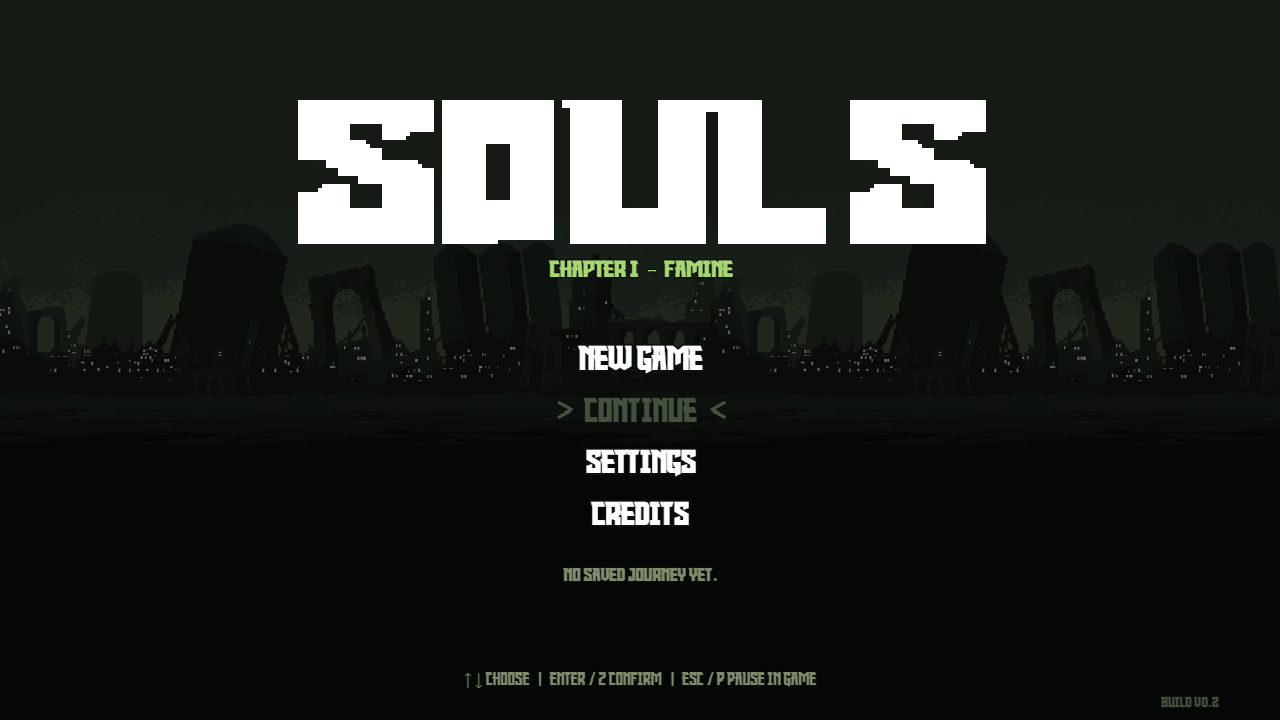
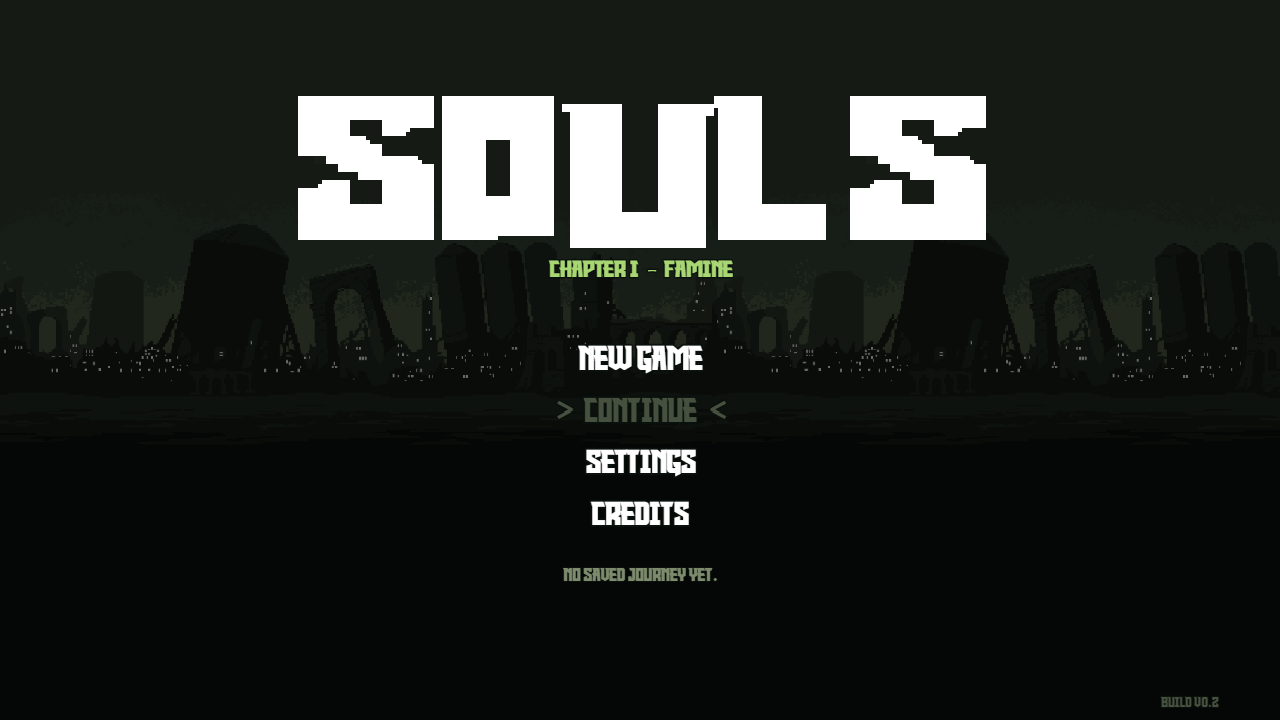
v0.2 owner changes: no menu key hints; pause menu leaves fullscreen, Resume re-enters it
- Main menu: removed the key instructions line at the bottom.
- P / Esc open the pause menu and leave fullscreen. Resume (and Retry) go
  back to fullscreen; the game resumes once fullscreen is granted, and if the
  browser refuses (Esc is not a user gesture) it waits behind the
  click-to-continue overlay.
- Leaving fullscreen any other way mid-run now opens the pause menu; the
  overlay remains only for the death screen.
- Smoke test updated: 50/50; survival 46/46.

diff --git a/js/UIScenes.js b/js/UIScenes.js
@@ -90,11 +90,26 @@ const UI = {
     return !!overlay && overlay.style.display === "flex";
   },
 
+  // Resolves true once fullscreen, false if the browser refused (for example
+  // when the request did not come from a click or a non-Esc key press).
   enterFullscreen() {
-    if (document.fullscreenElement) return;
-    document.documentElement.requestFullscreen().catch((e) => {
-      console.warn("Could not enter fullscreen:", e);
-    });
+    if (document.fullscreenElement) return Promise.resolve(true);
+    return document.documentElement.requestFullscreen().then(
+      () => true,
+      (e) => {
+        console.warn("Could not enter fullscreen:", e);
+        return false;
+      },
+    );
+  },
+
+  exitFullscreen() {
+    if (document.fullscreenElement) document.exitFullscreen().catch(() => {});
+  },
+
+  showFullscreenOverlay() {
+    const overlay = document.getElementById("fullscreen-overlay");
+    if (overlay) overlay.style.display = "flex";
   },
 
   text(scene, x, y, content, size, color = UI.COLORS.bone) {
@@ -261,8 +276,6 @@ class MenuScene extends Phaser.Scene {
       { label: "Credits", onSelect: () => this.scene.start("CreditsScene") },
     ]);
 
-    UI.text(this, width / 2, height - 40,
-      "↑ ↓ choose   |   Enter / Z confirm   |   Esc / P pause in game", 16, UI.COLORS.dim);
     UI.text(this, width - 90, height - 18, "build v0.2", 14, UI.COLORS.disabled);
     this.cameras.main.fadeIn(250, 0, 0, 0);
   }
@@ -361,6 +374,8 @@ class PauseScene extends Phaser.Scene {
   }
   create() {
     const { width, height } = this.scale;
+    // The pause menu is played windowed; Resume and Retry return to fullscreen.
+    UI.exitFullscreen();
     this.add.rectangle(0, 0, width, height, 0x050805, 0.72).setOrigin(0);
     UI.text(this, width / 2, 200, "PAUSED", 64);
     this.menu = UI.menu(
@@ -373,7 +388,10 @@ class PauseScene extends Phaser.Scene {
         {
           label: "Retry from Checkpoint",
           hint: "Back to the last checkpoint with full health. Enemies return.",
-          onSelect: () => this.scene.get("GameScene").restartFromCheckpoint(),
+          onSelect: () => {
+            UI.enterFullscreen();
+            this.scene.get("GameScene").restartFromCheckpoint();
+          },
         },
         { label: "Quit to Main Menu", onSelect: () => this.quitToMenu() },
       ],
@@ -381,8 +399,15 @@ class PauseScene extends Phaser.Scene {
     );
   }
   resumeGame() {
-    this.scene.resume("GameScene");
+    // The game resumes once fullscreen is back. If the browser refuses (Esc
+    // does not count as a user gesture), it waits behind the click-to-continue
+    // overlay, whose click re-enters fullscreen and resumes.
     this.scene.stop();
+    UI.enterFullscreen().then((ok) => {
+      if (!game.scene.isPaused("GameScene")) return;
+      if (ok) game.scene.resume("GameScene");
+      else UI.showFullscreenOverlay();
+    });
   }
   quitToMenu() {
     this.scene.stop("GameScene");

diff --git a/js/main.js b/js/main.js
@@ -21,9 +21,11 @@ const config = {
 };
 const game = new Phaser.Game(config);
 
-// Fullscreen is mandatory during play: New Game enters it (MenuScene), and
-// leaving it mid-run shows the "game paused" overlay. Clicking the overlay
-// re-enters fullscreen and resumes, unless the pause menu holds the game.
+// Fullscreen is mandatory during play: New Game and Continue enter it, the
+// pause menu (P / Esc) leaves it, and Resume enters it again. Leaving
+// fullscreen any other way mid-run opens the pause menu; if that is not
+// possible (the death screen), the "game paused" overlay is shown instead.
+// Clicking the overlay re-enters fullscreen and resumes.
 document.addEventListener("DOMContentLoaded", () => {
   const overlay = document.getElementById("fullscreen-overlay");
   const inRun = () => game.scene.isActive("GameScene") || game.scene.isPaused("GameScene");
@@ -39,6 +41,10 @@ document.addEventListener("DOMContentLoaded", () => {
 
   document.addEventListener("fullscreenchange", () => {
     if (document.fullscreenElement || !inRun()) return;
+    const pauseMenuOpen = game.scene.isActive("PauseScene") || game.scene.isSleeping("PauseScene");
+    if (pauseMenuOpen) return;
+    const gameScene = game.scene.getScene("GameScene");
+    if (game.scene.isActive("GameScene") && gameScene.requestPause()) return;
     overlay.style.display = "flex";
     if (game.scene.isActive("GameScene")) game.scene.pause("GameScene");
   });

diff --git a/js/GameScene.js b/js/GameScene.js
@@ -306,12 +306,7 @@ class GameScene extends Phaser.Scene {
       this.setHitboxDebug(!this.physics.world.drawDebug);
     });
     const openPause = (event) => {
-      // scene.pause() is queued, so isActive() stays true for the rest of
-      // this frame; the flag stops a second key (Esc+P) launching twice.
-      if (event.repeat || this.pauseRequested || this.isDead) return;
-      this.pauseRequested = true;
-      this.scene.launch("PauseScene");
-      this.scene.pause();
+      if (!event.repeat) this.requestPause();
     };
     this.input.keyboard.on("keydown-ESC", openPause);
     this.input.keyboard.on("keydown-P", openPause);
@@ -731,6 +726,16 @@ class GameScene extends Phaser.Scene {
       ease: "Quad.easeIn",
     });
     this.time.delayedCall(DEATH_CONFIG.fallMs, () => this.scene.launch("DeathScene"));
+  }
+  // Opens the pause menu (which also leaves fullscreen). scene.pause() is
+  // queued, so isActive() stays true for the rest of this frame; the flag
+  // stops a second request (Esc+P, or a fullscreen exit) launching twice.
+  requestPause() {
+    if (this.pauseRequested || this.isDead) return false;
+    this.pauseRequested = true;
+    this.scene.launch("PauseScene");
+    this.scene.pause();
+    return true;
   }
   // Checkpoint restore: rebuilds the saved map with full HP/stamina and all
   // regular enemies reset. Used by death and by Retry from Checkpoint.
